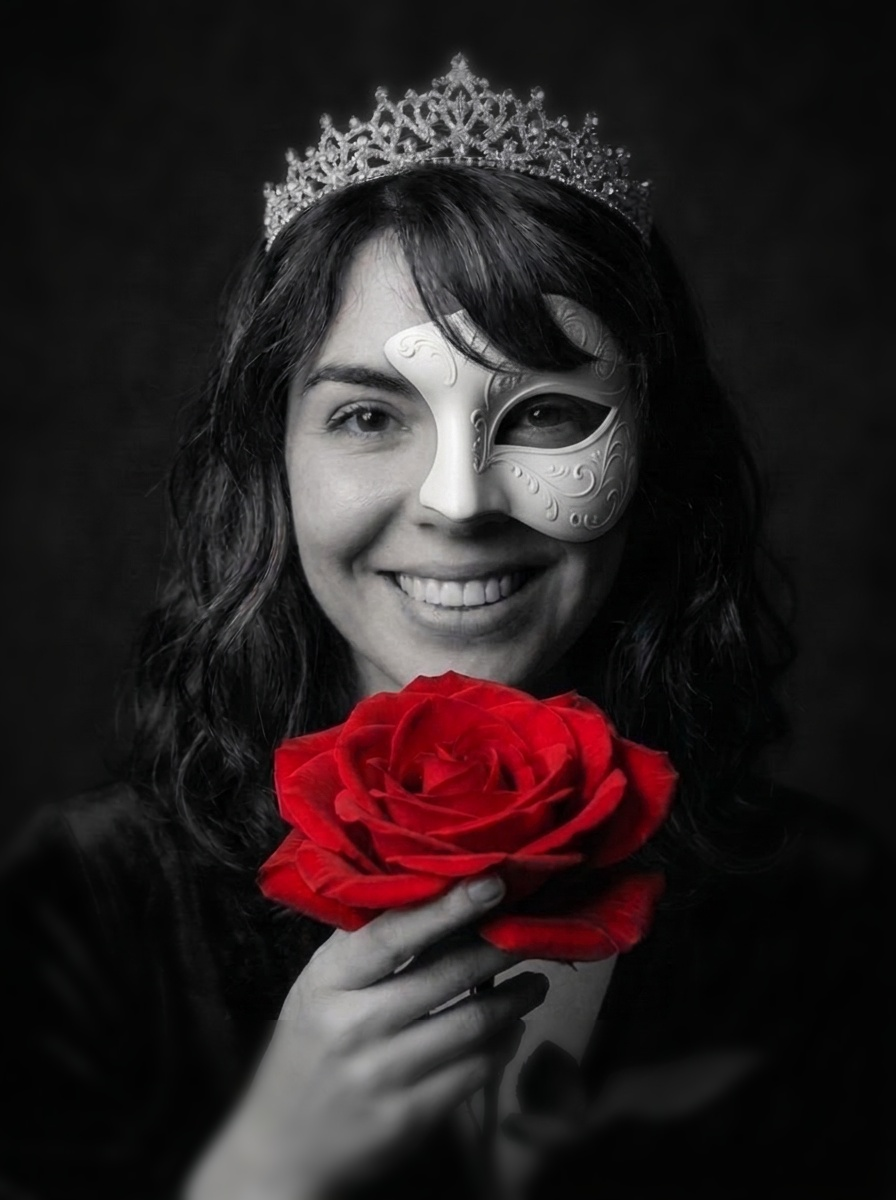
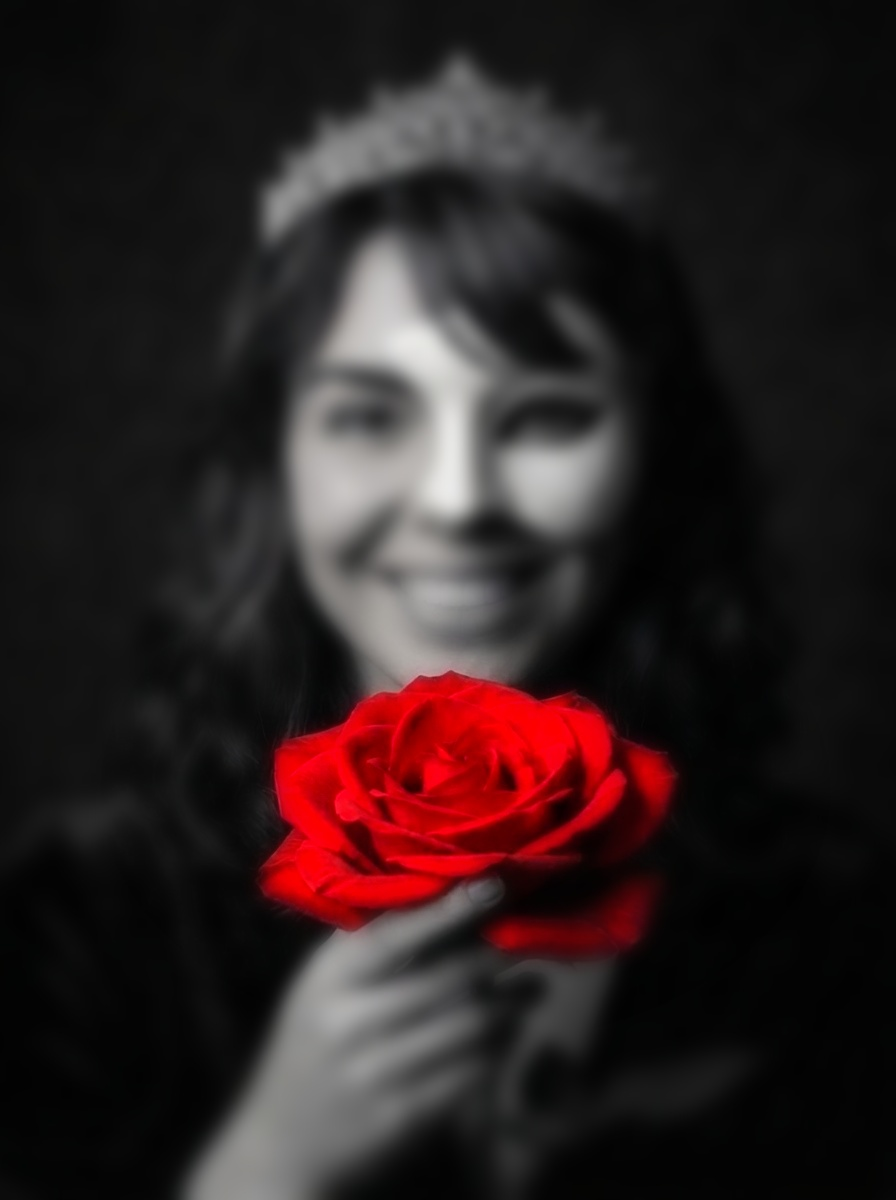
Aplica desenfoque elegante a la persona realzando la rosa roja, genera cupon VIP en Canvas y actualiza las 11 frases de fiesta

diff --git a/index.html b/index.html
@@ -811,9 +811,14 @@
           <p class="text-xs text-stone-200 mb-3">
             Demostraste conocer a Bárbara al 100%. Descarga tu cupón oficial y preséntalo en la fiesta para recibir tu premio sorpresa.
           </p>
-          <button id="downloadCouponBtn" type="button" class="w-full bg-gradient-to-r from-amber-400 via-yellow-300 to-amber-500 hover:from-yellow-300 hover:to-amber-400 text-black font-black text-xs sm:text-sm uppercase tracking-wider py-3.5 px-4 rounded-xl shadow-[0_0_20px_rgba(255,215,0,0.9)] border border-amber-100 transition transform active:scale-95 flex items-center justify-center gap-2">
-            <span class="text-base">🎟</span> Descargar Cupón Premio Sorpresa
-          </button>
+          <button
+              id="downloadCouponBtn"
+              type="button"
+              onclick="generateAndDownloadCoupon()"
+              class="w-full bg-gradient-to-r from-amber-400 via-yellow-300 to-amber-500 hover:from-yellow-300 hover:to-amber-400 text-black font-black text-xs sm:text-sm uppercase tracking-wider py-3.5 px-4 rounded-xl shadow-[0_0_20px_rgba(255,215,0,0.9)] border border-amber-100 transition transform active:scale-95 flex items-center justify-center gap-2 cursor-pointer"
+            >
+              <span class="text-base">🎟</span> Descargar Cupón Premio Sorpresa
+            </button>
         </div>
 
                 <!-- Botón Especial de Disculpa para Repetir Trivia (Solo si < 4/4) -->
@@ -1120,20 +1125,16 @@
     // 15 Frases de Fiesta Chilenas con Emojis
     const laughPhrases = [
       '¡VIVAN LOS MIGAJEROS! 🥖😂',
-      '¡MIGAJAS PARA LAS PALOMAS! 🕊💅',
+      '¡MIGAS PARA LAS PALOMAS! 🕊💅',
       '¡EL PUDOR ME CONOCE, PERO NO SOMOS AMIGAS! 😈✨',
       '¡VERGÜENZA AJENA SÍ, PROPIA NO! 🙈🔥',
       '¡SALUD POR LOS 35 DE BÁRBARA! 🥂✨',
       '¡PISCOLA DE 40° CON BASTANTE HIELO! 🥃🧊',
       '¡HOY SE BAILA HASTA LAS 03:30 AM! 💃🎉',
-      '¡EL LUNES NADIE TRABAJA! 🍾😎',
-      '¡UN BRINDIS POR LA REINA BÁRBARA! 👑💖',
       '¡EL HIELO NO SE LE NIEGA A NADIE! 🧊🍻',
       '¡LA DIGNIDAD SE QUEDA EN LA ENTRADA! 💅😂',
       '¡OTRA VUELTA DE PISCOLA POR FAVOR! 🥃🤤',
       '¡CON REGALO O CON VERGÜENZA, PERO LLEGUE! 🎁👀',
-      '¡QUIEN SE QUEDA DORMIDO PAGA LA MULTA! 🚨😴',
-      '¡HOY SE GOZA Y NO SE LLORA! 🥳🥂',
       '¡QUE VIVAN LOS DESEADOS 35 AÑOS! 🎂👑'
     ];
 
@@ -1433,6 +1434,138 @@
     }
 
 
+    
+    // =========================================================================
+    // GENERADOR DE CUPÓN VIP EN HTML5 CANVAS (1200x630 PX)
+    // =========================================================================
+    function generateAndDownloadCoupon() {
+      try {
+        playClinkSound();
+      } catch (e) {}
+
+      const canvas = document.createElement('canvas');
+      canvas.width = 1200;
+      canvas.height = 630;
+      const ctx = canvas.getContext('2d');
+
+      // 1. Fondo Oscuro Neón & Ópera Real
+      const bgGrad = ctx.createRadialGradient(600, 315, 80, 600, 315, 650);
+      bgGrad.addColorStop(0, '#1c0824');
+      bgGrad.addColorStop(0.5, '#0b020e');
+      bgGrad.addColorStop(1, '#030105');
+      ctx.fillStyle = bgGrad;
+      ctx.fillRect(0, 0, 1200, 630);
+
+      // 2. Marco Doble Dorado de Lujo
+      ctx.strokeStyle = '#d4af37';
+      ctx.lineWidth = 8;
+      ctx.strokeRect(30, 30, 1140, 570);
+
+      ctx.strokeStyle = '#f5e298';
+      ctx.lineWidth = 2;
+      ctx.strokeRect(45, 45, 1110, 540);
+
+      // Ornamentos de esquinas
+      function drawCornerFlourish(x, y, flipX, flipY) {
+        ctx.save();
+        ctx.translate(x, y);
+        ctx.scale(flipX, flipY);
+        ctx.strokeStyle = '#f5e298';
+        ctx.lineWidth = 3;
+        ctx.beginPath();
+        ctx.moveTo(0, 35);
+        ctx.lineTo(0, 0);
+        ctx.lineTo(35, 0);
+        ctx.stroke();
+
+        ctx.fillStyle = '#d4af37';
+        ctx.beginPath();
+        ctx.arc(10, 10, 4, 0, Math.PI * 2);
+        ctx.fill();
+        ctx.restore();
+      }
+
+      drawCornerFlourish(55, 55, 1, 1);
+      drawCornerFlourish(1145, 55, -1, 1);
+      drawCornerFlourish(55, 575, 1, -1);
+      drawCornerFlourish(1145, 575, -1, -1);
+
+      // 3. Corona y Encabezado Real
+      ctx.textAlign = 'center';
+      ctx.fillStyle = '#ffdf79';
+      ctx.font = 'bold 50px "Playfair Display", Georgia, serif';
+      ctx.fillText('👑 BÁRBARA DUHALDE 👑', 600, 120);
+
+      ctx.fillStyle = '#ffffff';
+      ctx.font = '900 28px "Montserrat", sans-serif';
+      ctx.letterSpacing = '6px';
+      ctx.fillText('MIS DESEADOS 35 AÑOS • GALA VIP', 600, 165);
+
+      // Línea divisoria dorada
+      ctx.strokeStyle = '#d4af37';
+      ctx.lineWidth = 2;
+      ctx.beginPath();
+      ctx.moveTo(350, 190);
+      ctx.lineTo(850, 190);
+      ctx.stroke();
+
+      // 4. Insignia Destacada del Cupón
+      ctx.fillStyle = '#d4af37';
+      ctx.font = '900 36px "Montserrat", sans-serif';
+      ctx.fillText('★ CUPÓN PREMIO SORPRESA VIP ★', 600, 255);
+
+      // Texto de Certificación
+      ctx.fillStyle = '#e8d5b5';
+      ctx.font = '500 21px "Montserrat", sans-serif';
+      ctx.fillText('Certifica que este portador/a conoce a la cumpleañera al 100% (4/4 en la Trivia Real).', 600, 315);
+      ctx.fillText('Válido por un cóctel especial y premio sorpresa de la anfitriona en la barra del evento.', 600, 355);
+
+      // 5. Datos del Evento
+      ctx.fillStyle = '#a3e635';
+      ctx.font = 'bold 22px "Montserrat", sans-serif';
+      ctx.fillText('📍 Nueva Antumalal 146, Maipú  •  📅 Viernes 27 de Noviembre, 20:00 hrs', 600, 430);
+
+      // 6. Sello Real de Cera y Código Serial
+      const serialNum = 'B35-' + Math.floor(100000 + Math.random() * 900000);
+      ctx.textAlign = 'left';
+      ctx.fillStyle = '#9ca3af';
+      ctx.font = '600 16px monospace';
+      ctx.fillText(`SERIAL: ${serialNum}  |  AUTENTICIDAD VERIFICADA`, 60, 560);
+
+      // Sello circular dorado en esquina inferior derecha
+      ctx.save();
+      ctx.translate(1060, 490);
+      ctx.beginPath();
+      ctx.arc(0, 0, 55, 0, Math.PI * 2);
+      ctx.fillStyle = '#8b1d24'; // carmesí
+      ctx.fill();
+      ctx.lineWidth = 4;
+      ctx.strokeStyle = '#f5d77f';
+      ctx.stroke();
+
+      ctx.textAlign = 'center';
+      ctx.fillStyle = '#ffffff';
+      ctx.font = 'bold 13px "Montserrat", sans-serif';
+      ctx.fillText('SELLO REAL', 0, -8);
+      ctx.font = 'bold 15px "Montserrat", sans-serif';
+      ctx.fillText('XXXV', 0, 12);
+      ctx.font = '900 10px monospace';
+      ctx.fillText('VALIDADO', 0, 28);
+      ctx.restore();
+
+      // 7. Descargar automáticamente la imagen PNG
+      const link = document.createElement('a');
+      link.download = `Cupon_VIP_35_Barbara_${serialNum}.png`;
+      link.href = canvas.toDataURL('image/png');
+      document.body.appendChild(link);
+      link.click();
+      setTimeout(() => {
+        document.body.removeChild(link);
+      }, 1000);
+
+      showToast('🎟 ¡CUPÓN VIP DESCARGADO! Guárdalo en tus fotos y preséntalo en la fiesta.');
+    }
+
     // =========================================================================
     // TRIVIA INTERACTIVA ("CULTURA GENERAL CUMPLEAÑERA")
     // =========================================================================
@@ -1500,6 +1633,16 @@
     const triviaScoreLabel = document.getElementById('triviaScoreLabel');
     const triviaProgressBar = document.getElementById('triviaProgressBar');
     const modalBeerLiquid = document.getElementById('modalBeerLiquid');
+    
+    const downloadCouponBtn = document.getElementById('downloadCouponBtn');
+    if (downloadCouponBtn) {
+      downloadCouponBtn.addEventListener('click', generateAndDownloadCoupon);
+      downloadCouponBtn.addEventListener('touchend', (e) => {
+        e.preventDefault();
+        generateAndDownloadCoupon();
+      });
+    }
+
     const restartTriviaBtn = document.getElementById('restartTriviaBtn');
 
     function renderTriviaQuestion() {
@@ -1588,19 +1731,11 @@
         resultTitle.textContent = '¡CONOCES A BÁRBARA AL 100%! (4/4)';
         resultDesc.textContent = '¡Puntaje perfecto indiscutible! Te sabes su fecha, signo, historia y gustos al revés y al derecho. Tienes tu pase oficial al premio sorpresa.';
         // Si ganó el cupón, se oculta el botón de jugar de nuevo
-        if (restartTriviaBtn) {
-      restartTriviaBtn.addEventListener('click', () => {
-        openTriviaFlow();
-      });
-    }
+
       } else {
         couponContainer.classList.add('hidden');
         ironicMessageBox.classList.remove('hidden');
-        if (restartTriviaBtn) {
-      restartTriviaBtn.addEventListener('click', () => {
-        openTriviaFlow();
-      });
-    }
+
 
         if (score === 3) {
           resultEmoji.textContent = '🤦♀👀';
